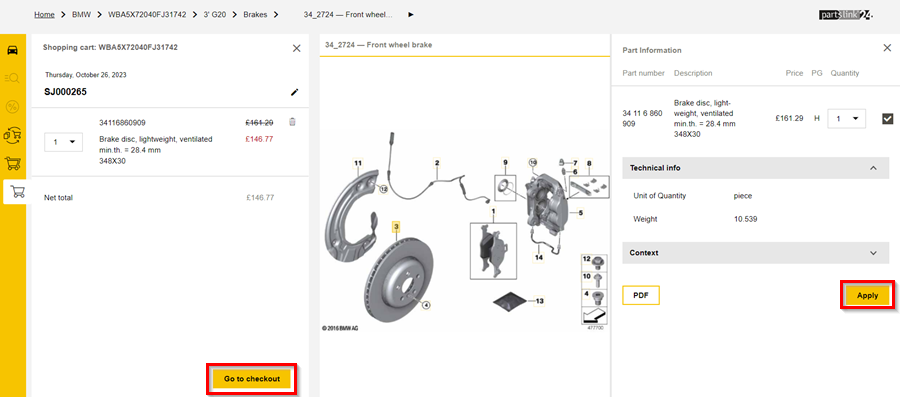
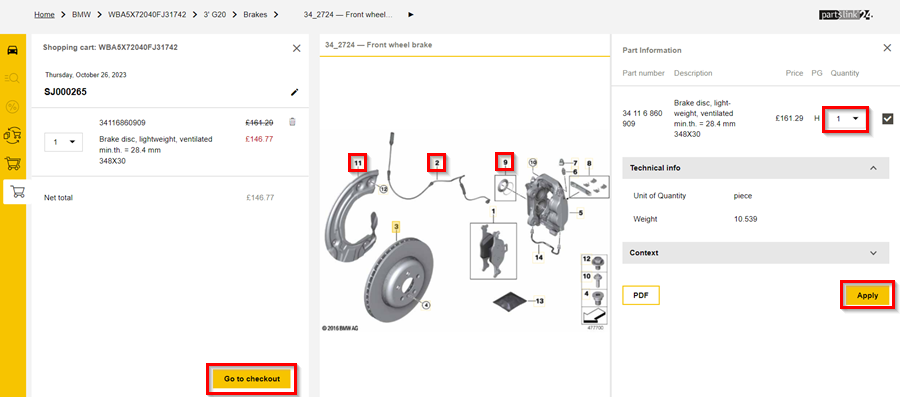
parts link update

diff --git a/docs/garagehive-partslink24-integration.md b/docs/garagehive-partslink24-integration.md
@@ -11,38 +11,49 @@ We are currently reviewing this article before it is published, check back later
 # How to Use Parts Link Integration
 Garage Hive integration with Partslink24 allows users of PartsLink24 to easily transfer orders to Garage Hive through the Partslink24 Portal. This feature is available for use in Garage Hive if you are registered with Partslink24. To learn more about how to register, please visit their official website using this [link](https://www.partslink24.com/pl24-html/index.htm?se=oh&au=ig&la=en#:~:text=The%20partslink24%20Portal%20enables%20you,processing%20is%20rapid%20and%20convenient){:target="_blank"}.
 
+New Partslink24 users can get a free demo on the Partslink24 portal. Contact [Garage Hive support](support.html) for referral.
+
 ## In this article
 1. [Opening Partslink24 from Garage Hive and Placing an Order](#opening-partslink24-from-garage-hive-and-placing-an-order)
 2. [How to Transfer Partslink24 Order to Garage Hive](#how-to-transfer-partslink24-order-to-garage-hive)
 
 ### Opening Partslink24 from Garage Hive and Placing an Order
+
+   {% include youtube.html id="oLbBTzfjD_Y" %}
+
 1. Partslink24 is available for use in the Jobsheet, Estimate and VI Estimate.
-2. Open the document that you want to open the **Partslink24** portal from, and in the menu bar select **Parts** followed by **Open Partslink24**.
+1. Open the document that you want to open the **Partslink24** portal from, and in the menu bar select **Parts** followed by **Open Partslink24**.
 
    ![](media/garagehive-partslink24-open-and-order1.png)
 
-3. You will be directed to the **Partslink24** portal where you can place your order with authorised dealers. The Partslink24 portal uses the VIN to help you create your order. 
-4. Click **Continue** to start adding items in your shopping cart.  In the **Main Group** column, select the category from which to add items.
+1. You will be directed to the **Partslink24** portal where you can place your order with authorised dealers. The Partslink24 portal uses the VIN to help you create your order.
+1. Click **Continue** to start adding items in your shopping cart.  In the **Main Group** column, select the category from which to add items.
 
    ![](media/garagehive-partslink24-open-and-order2.png)
 
-5. For easier reference, copy the Jobsheet number and add it as the customer reference in the shopping cart. Then, click on the sub-category description to open the parts list.
+1. You can copy the VIN from Garage Hive and paste it to the Partslink Portal if it is not picked up automatically. Once **Open Partslink24** is selected, the page below opens immediately.
+
+   ![](media/garagehive-partslink24-open-and-order2.1.png)
+
+1. For easier reference, copy the Jobsheet number and add it as the customer reference in the shopping cart. Then, click on the sub-category description to open the parts list.
 
    ![](media/garagehive-partslink24-open-and-order3.png)
 
-6. In the parts list column, click on the information icon for the part that you want to order.
+1. In the parts list column, click on the information icon for the part that you want to order.
 
    ![](media/garagehive-partslink24-open-and-order4.png)
 
-7. The **Part Information** page opens, where you now click on **Apply** to add the item in the shopping cart. Repeat the process for all the items you want to order, and when done select **Go To Checkout**.
+1.  The **Part Information** page opens, where you can click any number on the displayed picture to add items that go with the selected item, or pick more quantity in the **Quantity** field.
+1. Click on **Apply** to add the item(s) in the shopping cart. 
+1. Repeat the process for other items you want to order, and when done select **Go To Checkout**.
 
    ![](media/garagehive-partslink24-open-and-order5.png)
 
-8. On the shopping cart, click on **To Order Overview**, to view the summary of the order.
+1. On the shopping cart, click on **To Order Overview**, to view the summary of the order.
 
    ![](media/garagehive-partslink24-open-and-order6.png)
 
-9. To place the order in Partslink24, click on **Order Now**.
+1. Check the **Transmit purchase prices** option and select **Order Now** to place the order in Partslink24.
 
    ![](media/garagehive-partslink24-open-and-order7.png)
 
@@ -50,15 +61,17 @@ Garage Hive integration with Partslink24 allows users of PartsLink24 to easily t
 [Go back to top](#top)
 
 ### How to Transfer Partslink24 Order to Garage Hive
-1. After placing an order in **Partslink24** portal, go back to Garage Hive and open the document in which you clicked the action **Open Partslink24**. Select **Parts** from the menu bar, followed by **Get Partslink Order**.
+1. Once you have placed an order on the **Partslink24** portal, return to Garage Hive and open the document where you clicked the **Open Partslink24** action. Select **Parts** from the menu bar, followed by **Get Partslink Order**.
 
    ![](media/garagehive-partslink24-transfer-order1.png)
 
-2. The items you ordered in Partslink24, will be added in the **Lines** subpage and a **Purchase Order** will be created for the items. Click on the Purchase Order number in the column **Special Order Purchase No.** to open the Purchase Order.
+2. The **Lines** subpage will be updated with the item(s) that you ordered from Partslink24, and a **Purchase Order** will be generated for the item(s). 
+3. To view the Purchase Order, click the Purchase Order number in the column **Special Order Purchase No.**.
 
    ![](media/garagehive-partslink24-transfer-order2.png)
 
-3. In the Purchase Order, the **Vendor Order No.** from **Partslink24** will be added for easier tracking. When you receive the items, you can post the PO and the order will be completed.
+4. The **Vendor Order No.** from **Partslink24** will be added to the Purchase Order for easier tracking. 
+5. Once the items are received, you can post the Purchase Order, and the order will be completed.
 
    ![](media/garagehive-partslink24-transfer-order3.png)
 

diff --git a/docs/index.md b/docs/index.md
@@ -38,5 +38,5 @@ Feel free to join our [Facebook Community Page](https://www.facebook.com/groups/
     * [**Android**](https://play.google.com/store/apps/details?id=com.zoho.assist.agent&hl=en_GB){:target="_blank"}
     
 
-### Suggest a feature
+### Suggest a Feature
 To propose a feature or suggest an improvement, please share your ideas using [this link](https://garage-hive.upvoty.com/b/ideas/){:target="_blank"}. The community members will upvote the ideas to prioritise which ones get developed next.
